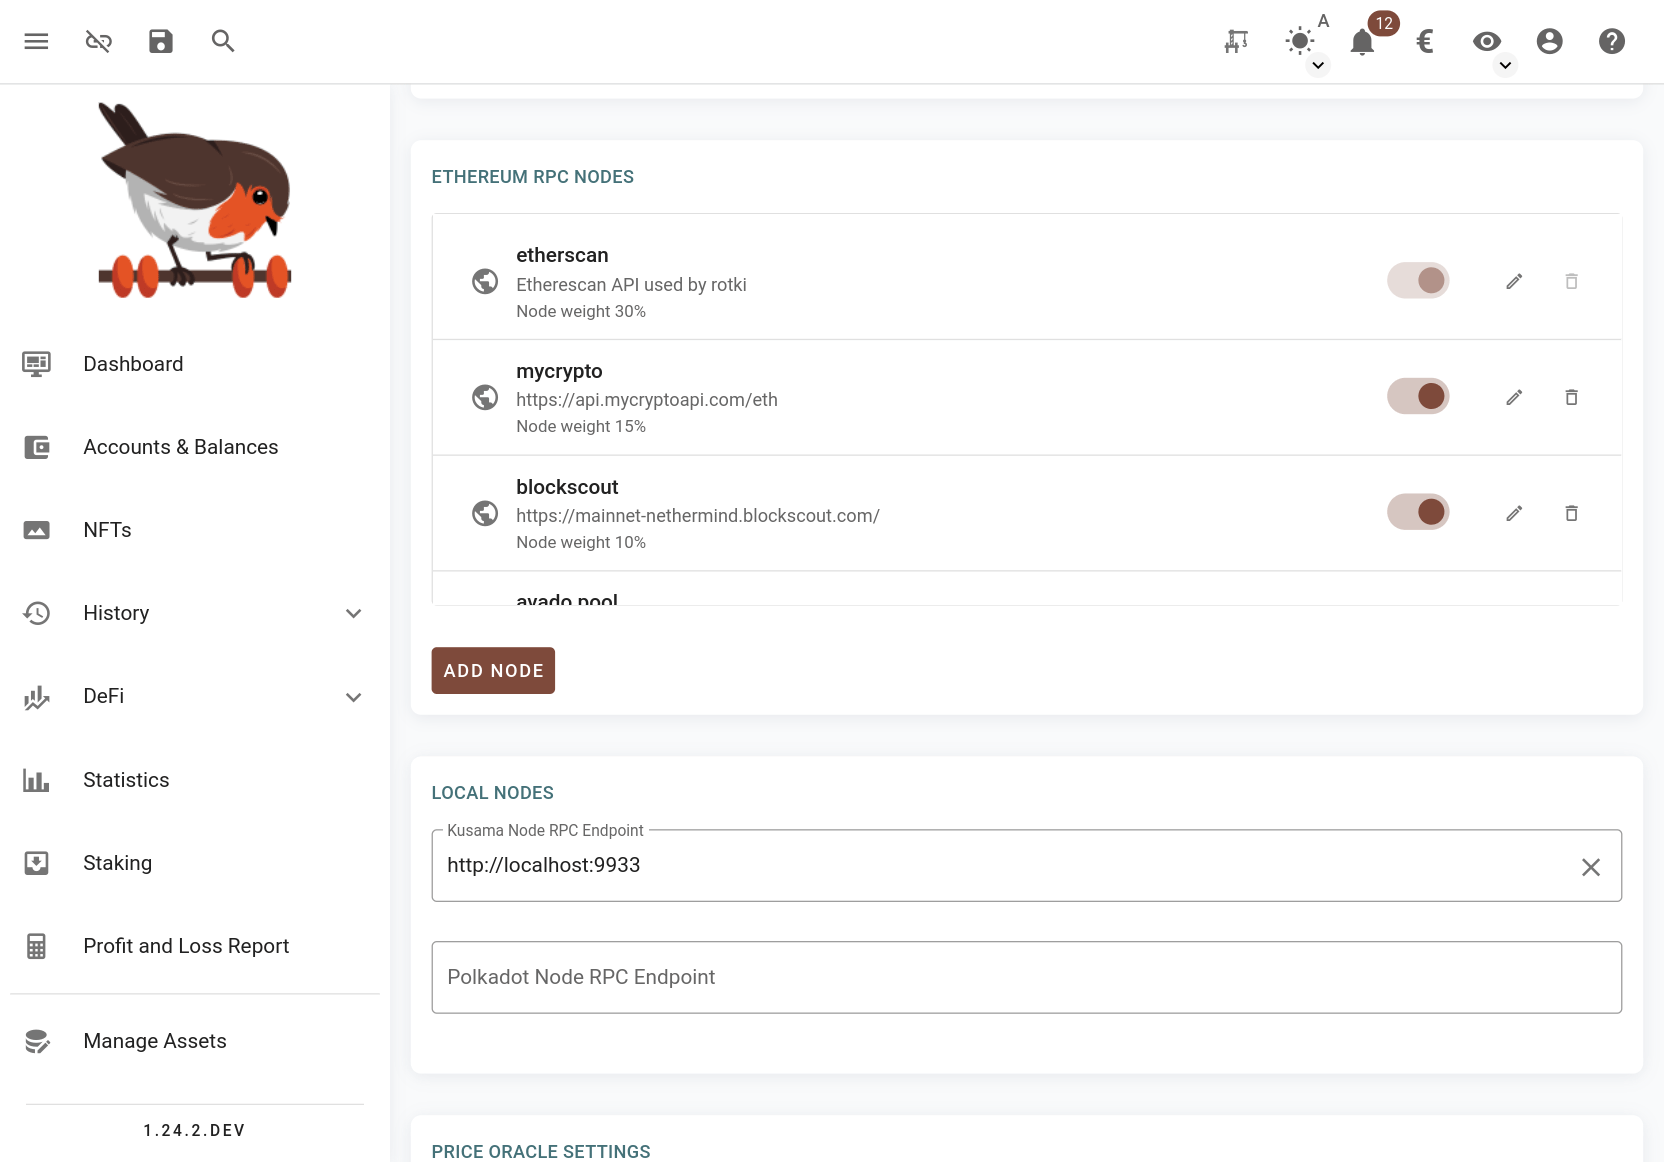
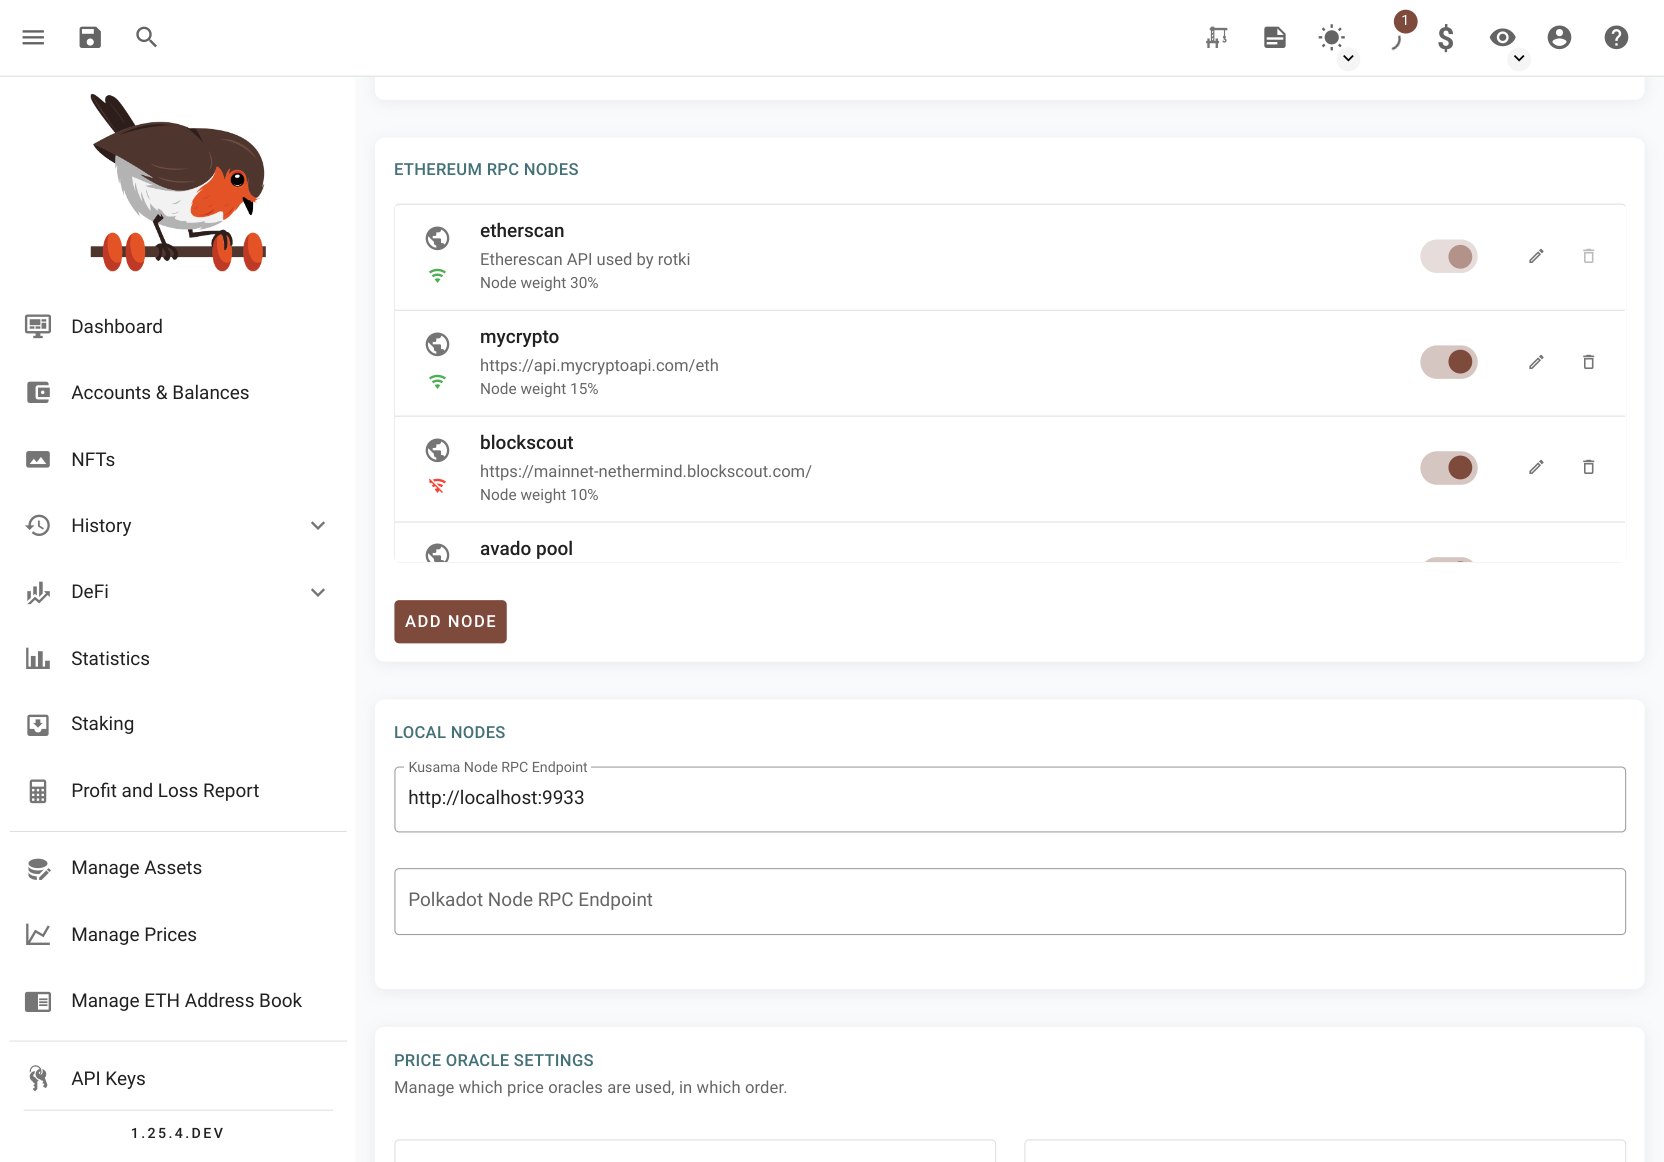
Docs update for 1.26.0

diff --git a/docs/usage_guide.rst b/docs/usage_guide.rst
@@ -227,7 +227,7 @@ This setting modifies the rounding mechanism choosing from ``Round up``, ``Round
 RPC nodes
 ^^^^^^^^^
 
-This setting allows you to modify the nodes that will be queried to interact with the blockchains. We provide a list of public nodes but sometimes they are not available or are overloaded. This is why it is a good idea to have more nodes just in case and to have the possibility to customize the priority with which they are queried.
+This setting allows you to modify the nodes that will be queried to interact with the blockchains. We provide a list of public nodes but sometimes they are not available or are overloaded. You can see either a green or a red icon near each node that shows its connection status. This is why it is a good idea to have more nodes just in case and to have the possibility to customize the priority with which they are queried.
 When making queries we always give preference to your own nodes if you have any and then add a small list of randomly selected open nodes in case they are needed. If you don't have your own node then the open nodes are always selected. The weight of the node sets the probability
 of picking it and is represented by a percentage. From that list it is also possible to mark them as active or inactive by using the toggle button.
 
@@ -383,7 +383,7 @@ Cost basis method
 The method that should be used during the profit and loss execution to calculate cost basis. The methods available at the moment are:
 
 - FIFO: `First In First Out`
-- LIFO: `Last In First Out``
+- LIFO: `Last In First Out`
 
 .. _ledger_action_settings:
 
@@ -447,14 +447,14 @@ To delete a backup you can press the trash can icon on the database row.
 The download button provides an easy way to save the backups locally, and it can be
 especially helpful if you run the docker instance on a remote machine.
 
-Exporting and importing custom assets
+Exporting and importing user assets
 -------------------------------------
 
-When migrating from one computer to another you will also need to move your custom assets entries.
+When migrating from one computer to another you will also need to move your user assets entries.
 To do this you can use the export/import function provided by rotki.
 
-This function will create a zip archive of all your custom assets. You can then use the import function
-in a different instance of rotki to easily transfer your custom asset entries.
+This function will create a zip archive of all your user assets. You can then use the import function
+in a different instance of rotki to easily transfer your user asset entries.
 
 .. image:: images/sc_custom_import_export.png
    :alt: Importing
